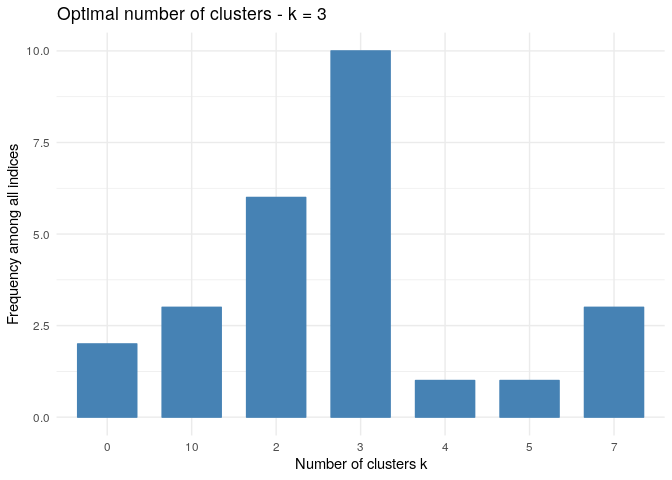
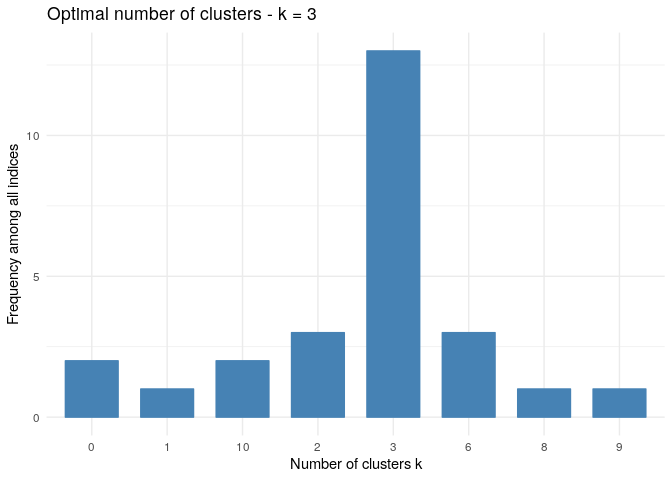
Included more data in the cluster analysis

diff --git a/README.md b/README.md
@@ -141,21 +141,23 @@ Let us see now what how we can best group the Population and Elo data.
 library(clValid)
 library(factoextra)
 library(NbClust)
+library(tidyverse)
 clusDat <- eloPop[,c("PopTotal", "avgElo")]
+clusDat <- eloPop[,c("elo17", "highElo", "avgElo", "lowElo", "PopTotal", "elo07")]
 rownames(clusDat) <- eloPop$Name
 clusDat$PopTotal <- log(clusDat$PopTotal)
 
 intern <- clValid(clusDat, nClust = 2:6, 
-              clMethods = c("hierarchical","kmeans","pam"),
+              clMethods = c("hierarchical","kmeans","pam", "sota", "fanny"),
               validation = c("internal"),
-              metric = "manhattan")
+              metric = "euclidean")
 # Summary
 summary(intern)
 ```
 
     ## 
     ## Clustering Methods:
-    ##  hierarchical kmeans pam 
+    ##  hierarchical kmeans pam sota fanny 
     ## 
     ## Cluster sizes:
     ##  2 3 4 5 6 
@@ -163,26 +165,32 @@ summary(intern)
     ## Validation Measures:
     ##                                  2       3       4       5       6
     ##                                                                   
-    ## hierarchical Connectivity   1.6468  4.8758  8.5595 11.0869 14.6782
-    ##              Dunn           0.0297  0.0346  0.0346  0.0293  0.0427
-    ##              Silhouette     0.5760  0.5384  0.4839  0.5347  0.5256
-    ## kmeans       Connectivity   4.4139  8.4972  9.2702 15.0131 20.2067
-    ##              Dunn           0.0131  0.0119  0.0292  0.0184  0.0346
-    ##              Silhouette     0.5679  0.5607  0.5585  0.5396  0.5507
-    ## pam          Connectivity   2.5274 10.2583 15.1980 16.1742 21.5048
-    ##              Dunn           0.0151  0.0113  0.0200  0.0213  0.0102
-    ##              Silhouette     0.5508  0.5443  0.5354  0.5436  0.5012
+    ## hierarchical Connectivity   9.3504 21.7032 29.6222 35.7794 38.6083
+    ##              Dunn           0.0767  0.0503  0.0705  0.0879  0.0879
+    ##              Silhouette     0.5459  0.4756  0.4430  0.3926  0.3455
+    ## kmeans       Connectivity  15.5556 24.6710 34.9813 45.1738 43.4242
+    ##              Dunn           0.0511  0.0402  0.0578  0.0620  0.0803
+    ##              Silhouette     0.5253  0.5014  0.4405  0.4052  0.3739
+    ## pam          Connectivity  28.7067 24.0575 51.2437 58.7179 54.8393
+    ##              Dunn           0.0322  0.0472  0.0326  0.0493  0.0456
+    ##              Silhouette     0.4943  0.4991  0.3939  0.3876  0.3669
+    ## sota         Connectivity  25.8639 35.1778 46.7095 60.5175 71.5250
+    ##              Dunn           0.0381  0.0381  0.0557  0.0686  0.0686
+    ##              Silhouette     0.5143  0.3909  0.4208  0.3684  0.3118
+    ## fanny        Connectivity  11.3810 23.8175 40.0619 80.9036 63.0750
+    ##              Dunn           0.0483  0.0449  0.0660  0.0478  0.0572
+    ##              Silhouette     0.4850  0.4914  0.4009  0.3234  0.3264
     ## 
     ## Optimal Scores:
     ## 
     ##              Score  Method       Clusters
-    ## Connectivity 1.6468 hierarchical 2       
-    ## Dunn         0.0427 hierarchical 6       
-    ## Silhouette   0.5760 hierarchical 2
+    ## Connectivity 9.3504 hierarchical 2       
+    ## Dunn         0.0879 hierarchical 5       
+    ## Silhouette   0.5459 hierarchical 2
 
 ``` r
 set.seed(123)
-res.nbclust <- NbClust(clusDat, distance = "manhattan",
+res.nbclust <- NbClust(clusDat, distance = "euclidean",
                   min.nc = 2, max.nc = 10, 
                   method = "complete", index ="all") 
 ```
@@ -204,12 +212,12 @@ res.nbclust <- NbClust(clusDat, distance = "manhattan",
     ##  
     ## ******************************************************************* 
     ## * Among all indices:                                                
-    ## * 6 proposed 2 as the best number of clusters 
-    ## * 10 proposed 3 as the best number of clusters 
-    ## * 1 proposed 4 as the best number of clusters 
-    ## * 1 proposed 5 as the best number of clusters 
-    ## * 3 proposed 7 as the best number of clusters 
-    ## * 3 proposed 10 as the best number of clusters 
+    ## * 3 proposed 2 as the best number of clusters 
+    ## * 13 proposed 3 as the best number of clusters 
+    ## * 3 proposed 6 as the best number of clusters 
+    ## * 1 proposed 8 as the best number of clusters 
+    ## * 1 proposed 9 as the best number of clusters 
+    ## * 2 proposed 10 as the best number of clusters 
     ## 
     ##                    ***** Conclusion *****                            
     ##  
@@ -225,12 +233,13 @@ factoextra::fviz_nbclust(res.nbclust) + theme_minimal()
     ## Among all indices: 
     ## ===================
     ## * 2 proposed  0 as the best number of clusters
-    ## * 6 proposed  2 as the best number of clusters
-    ## * 10 proposed  3 as the best number of clusters
-    ## * 1 proposed  4 as the best number of clusters
-    ## * 1 proposed  5 as the best number of clusters
-    ## * 3 proposed  7 as the best number of clusters
-    ## * 3 proposed  10 as the best number of clusters
+    ## * 1 proposed  1 as the best number of clusters
+    ## * 3 proposed  2 as the best number of clusters
+    ## * 13 proposed  3 as the best number of clusters
+    ## * 3 proposed  6 as the best number of clusters
+    ## * 1 proposed  8 as the best number of clusters
+    ## * 1 proposed  9 as the best number of clusters
+    ## * 2 proposed  10 as the best number of clusters
     ## 
     ## Conclusion
     ## =========================
@@ -241,27 +250,30 @@ factoextra::fviz_nbclust(res.nbclust) + theme_minimal()
 ``` r
 # Try out the hierarchical clustering with 2 groups
 res <- hcut(clusDat, k = 3, stand = FALSE)
-fviz_cluster(res, stand = FALSE, repel = FALSE)
+
+
+completeDat <- mutate(eloPop, cluster = res$cluster)
+ggplot(completeDat, aes(PopTotal, avgElo, label = Name , colour = factor(cluster))) + geom_text(size=1.5) + theme_tufte(ticks = F) + 
+  theme(axis.title = element_blank()) + scale_x_continuous(trans = "log10", breaks = 100 * 
+                                                             (10^(1:7)), labels = comma)+scale_color_discrete(guide=FALSE)
 ```
 
 ![](README_files/figure-markdown_github/cluster-4.png)
 
 ``` r
-fviz_silhouette(res)
+ggplot(completeDat, aes(PopTotal, elo17, label = Name , colour = factor(cluster))) + geom_text(size=1.5) + theme_tufte(ticks = F) + 
+  theme(axis.title = element_blank()) + scale_x_continuous(trans = "log10", breaks = 100 * 
+                                                             (10^(1:7)), labels = comma)+
+  scale_color_discrete(guide=FALSE)
 ```
-
-    ##   cluster size ave.sil.width
-    ## 1       1   90          0.46
-    ## 2       2   81          0.69
-    ## 3       3   58          0.38
 
 ![](README_files/figure-markdown_github/cluster-5.png)
 
 ``` r
-fviz_dend(res, rect = TRUE)
+#fviz_cluster(res, stand = FALSE, repel = FALSE)
+#fviz_silhouette(res)
+#fviz_dend(res, rect = TRUE)
 ```
-
-![](README_files/figure-markdown_github/cluster-6.png)
 
 Data Sources
 ------------
